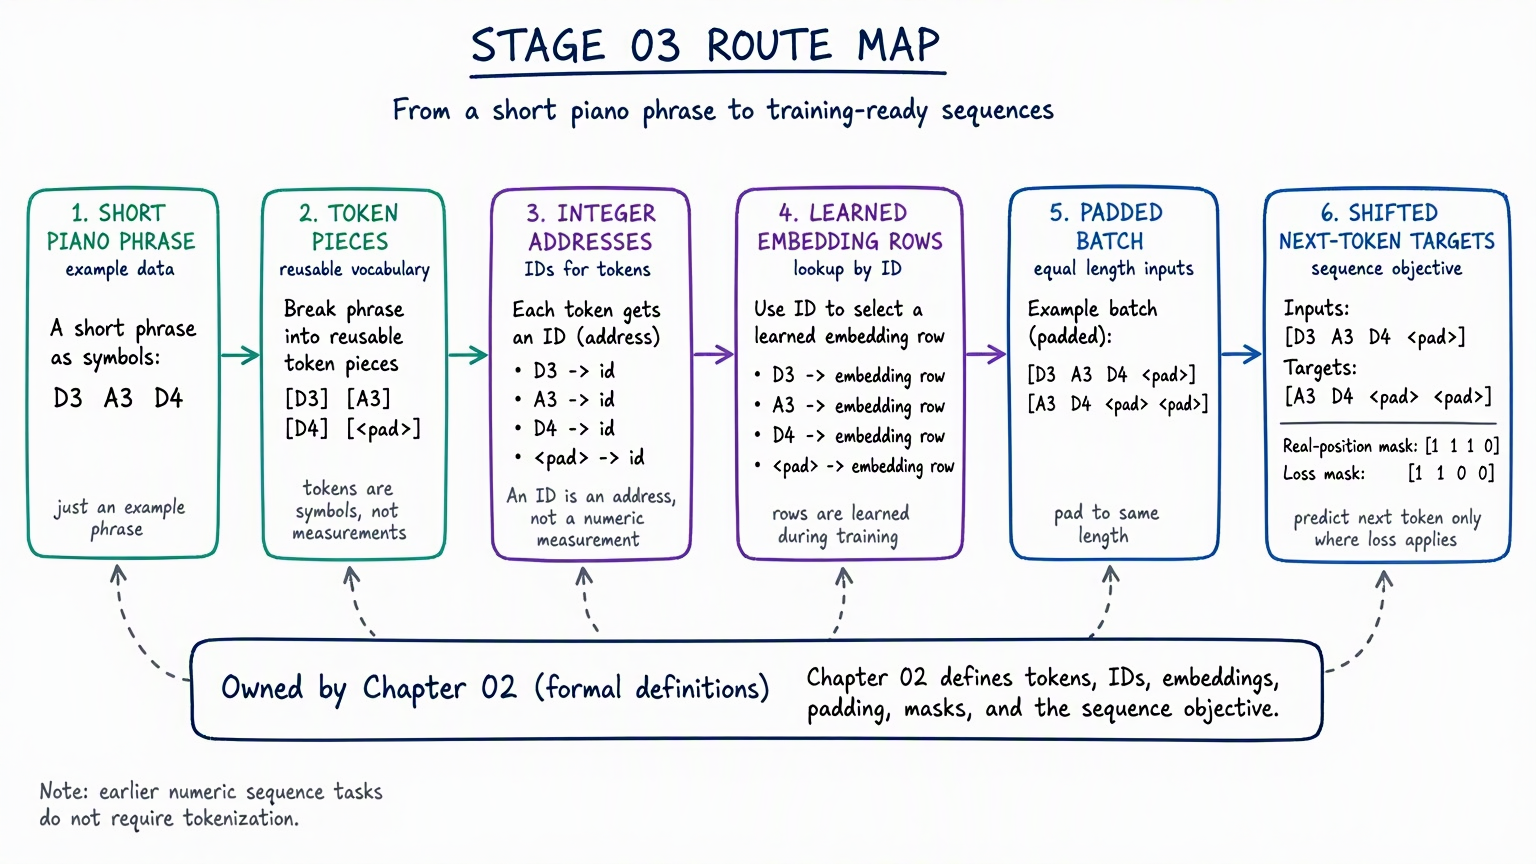
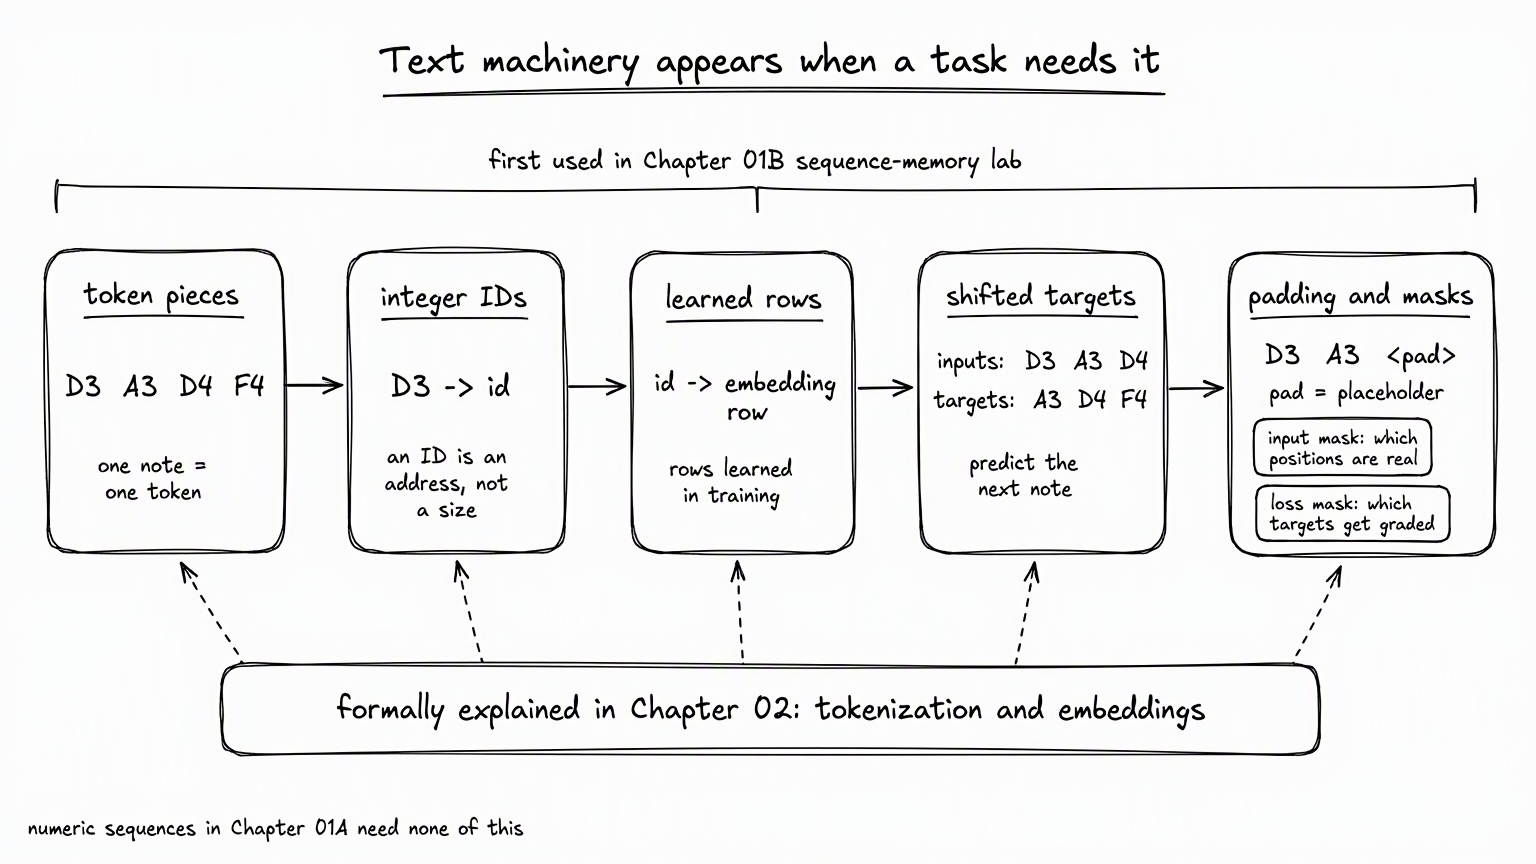
Regenerate four inaccurate curriculum images after accuracy review
- 04-rope-in-real-path: V no longer feeds rotation, scores, or softmax
- 04-block-family-comparison: remove stray arrow back into source memory
- 03-evo-03-fading-notecard: note updated from previous note + current word; add warm/cool answers
- 03-first-use-concept-map: correct one-step shift (inputs D3 A3 D4 -> targets A3 D4 F4), Chapter 01B first use

Alt text and PROMPTS.md records updated to match.

Changed region(s): [[0.0, 0.0312, 1.0, 0.6875], [0.0938, 0.7188, 0.875, 0.875], [0.0, 0.9062, 0.3438, 0.9688]]

diff --git a/learning/04-transformers/images/PROMPTS.md b/learning/04-transformers/images/PROMPTS.md
@@ -19,7 +19,7 @@ Used in: README.md — Reader map: what changes in each Part
 
 ## 04-block-family-comparison.png
 
-Status: generated (MAI-Image-2.6)
+Status: generated (MAI-Image-2.6; regenerated after accuracy review)
 
 Used in: README.md — What is inside each block family?
 
@@ -27,14 +27,14 @@ Used in: README.md — What is inside each block family?
 > - **Target file:** `images/04-block-family-comparison.png`
 > - **Teaches:** The writer with a separate source has one extra place to look: cross-attention.
 > - **Aspect ratio:** 16:9
-> - **Prompt:** Draw three side-by-side vertical stacks in a clean hand-drawn whiteboard style. Encoder: source [3,1,4,1] into self-attention (all valid source positions) then FFN (private per-position refinement). Decoder-only: aria heard into causal self-attention (prefix only) then FFN. Encoder-decoder writer: target [BOS,1,4] into causal self-attention then cross-attention then FFN; a separate blue source-memory bank [3,1,4,1] feeds only cross-attention. Use blue input cards, orange visibility boundaries, and green processed states. Label residual paths and normalization omitted from this comparison, not absent.
-> - **Must show:** Exact operation order in all three stacks; fixed source memory enters cross-attention; future target positions blocked; residual/normalization omission caveat.
+> - **Prompt:** A clean hand-drawn whiteboard diagram on white, 16:9. Title: "Three block families". Subtitle: "residual paths and normalization omitted here, not absent". Three vertical stacks side by side, each read top to bottom with downward arrows only. Stack 1 titled "Encoder": blue card "source 3 1 4 1", down to orange box "self-attention (sees all source positions)", down to green box "feed-forward (each position alone)". Stack 2 titled "Decoder-only": blue card "aria heard", down to orange box "causal self-attention (earlier positions only)", down to green box "feed-forward (each position alone)". Stack 3 titled "Encoder-decoder writer": blue card "target so far: start 1 4", down to orange box "causal self-attention (earlier target positions only)", down to orange box "cross-attention (looks at source memory)", down to green box "feed-forward (each position alone)". To the right of stack 3, a dashed blue box "source memory 3 1 4 1 (fixed, from encoder)" with ONE arrow pointing left into the cross-attention box only. No arrow points into the source memory. Large, sparse, correctly spelled text; nothing else.
+> - **Must show:** Exact operation order in all three stacks; fixed source memory enters cross-attention only, with no arrow back into it; residual/normalization omission caveat.
 > - **Must not show:** invented numbers, unreadable text, decorative clutter, logos, copyrighted characters
 > - **Alt text:** Encoder and decoder-only blocks each have attention then a feed-forward step. A source-conditioned writer adds cross-attention between its causal self-attention and feed-forward step.
 
 ## 04-rope-in-real-path.png
 
-Status: generated (MAI-Image-2.6)
+Status: generated (MAI-Image-2.6; regenerated after accuracy review)
 
 Used in: 02-attention-and-position.ipynb — Before the dials: where the question and label come from
 
@@ -42,7 +42,7 @@ Used in: 02-attention-and-position.ipynb — Before the dials: where the questio
 > - **Target file:** `images/04-rope-in-real-path.png`
 > - **Teaches:** Position turns the question and matching label before scoring, not the information that is delivered.
 > - **Aspect ratio:** 16:9
-> - **Prompt:** Draw the actual attention path left to right with the sentence the cat sat on the mat as the input row. Blue token-state cards feed learned Q/K/V projections, then separate head lanes. Label Q what cat asks, K what each position advertises, V what each position delivers. Q and K pass through orange paired dials labelled rotate by position; V bypasses the dials. Q/K arrows meet at scaled scores, then masks, then softmax (weights that sum to one), then weighted values; the V bypass enters this final blend. Use clean hand-drawn whiteboard style with blue inputs, orange position and legal-route controls, and green retrieved output. Clearly mark the early dial lesson as a visual preview and Sections 4–5 as the full computation connection.
-> - **Must show:** States, learned Q/K/V, head split, Q/K-only rotation, scaled scores, masks before softmax, weighted V in exact order; an explicit unrotated V bypass; preview versus real-path labels.
+> - **Prompt:** A clean hand-drawn whiteboard flow diagram on white, 16:9, one single left-to-right pipeline, no second panel. Title: "Where position enters attention". Far left: a row of six small blue cards "the" "cat" "sat" "on" "the" "mat" labelled "token states". One arrow from them splits into three blue boxes stacked vertically: top "Q: what am I looking for?", middle "K: what do I offer?", bottom "V: what do I deliver?". Q and K each pass through their own orange round dial icon labelled "rotate by position". V has NO dial; its arrow runs straight along the bottom labelled "V is not rotated". The rotated Q and rotated K arrows both enter one orange box "compare -> scaled scores", then arrow to orange box "mask (no illegal routes)", then arrow to orange box "softmax (weights sum to 1)". The softmax arrow and the long bottom V arrow both enter one green box "weighted blend of V", then arrow to green box "output". V never touches scores, mask, or softmax. Large, sparse, correctly spelled text; no numbers; nothing else.
+> - **Must show:** Q and K rotate by position; V bypasses rotation and never touches scores, mask, or softmax; softmax weights and V meet only at the weighted blend.
 > - **Must not show:** invented numbers, unreadable text, decorative clutter, logos, copyrighted characters
-> - **Alt text:** Projected queries and keys split into heads and rotate before scaled, masked comparisons. The resulting weights blend unrotated values.
+> - **Alt text:** Token states become queries, keys, and values. Only queries and keys rotate by position before scaled, masked comparison and softmax; the resulting weights blend unrotated values.

diff --git a/learning/03-language-model-foundations/images/PROMPTS.md b/learning/03-language-model-foundations/images/PROMPTS.md
@@ -4,13 +4,13 @@ Generate these images manually when ready. Keep placeholders in the lesson until
 
 ## 03-first-use-concept-map.png
 
-Status: generated (MAI-Image-2.6)
+Status: generated (MAI-Image-2.6; regenerated after accuracy review)
 Used in: `../README.md` — Recommended reader route
 
 - **Target file:** `images/03-first-use-concept-map.png`
 - **Teaches:** each text-tensor idea appears only when the current task needs it, while its formal owner remains easy to find.
 - **Aspect ratio:** 16:9
-- **Prompt:** Draw a clean hand-drawn whiteboard route map in the Stage 03 palette. Follow the real example tokens `D3`, `A3`, `D4`, and `<pad>` from a short piano phrase into reusable token pieces, integer addresses, learned embedding rows, a padded batch, shifted next-token targets, and separate real-position and loss masks. Put each concept beside the first task that needs it: sequence-memory text lab, tokenization and embeddings chapter, and the later sequence objective. Add small arrows to the formal owner in Chapter 02. Use plain readable labels and show that an ID is an address, not a numeric measurement; do not imply every earlier numeric sequence task needs tokenization.
-- **Must show:** the six concepts in route order; labels using `D3`, `A3`, `D4`, and `<pad>`; a visible distinction between input-position and loss-target masks; a link/ownership cue to Chapter 02; no fabricated measurements.
+- **Prompt:** A clean hand-drawn whiteboard route diagram on white, 16:9. Title: "Text machinery appears when a task needs it". Five cards left to right joined by arrows. Card 1 "token pieces": shows "D3  A3  D4  F4" and note "one note = one token". Card 2 "integer IDs": shows "D3 -> id" and note "an ID is an address, not a size". Card 3 "learned rows": shows "id -> embedding row" and note "rows learned in training". Card 4 "shifted targets": two labelled lines "inputs:  D3 A3 D4" and "targets: A3 D4 F4" and note "predict the next note". Card 5 "padding and masks": shows a short row "D3 A3 <pad>" with note "pad = placeholder", then two small labelled tags "input mask: which positions are real" and "loss mask: which targets get graded". Above cards 1 to 5 a thin bracket labelled "first used in Chapter 01B sequence-memory lab". Below all cards a wide box "formally explained in Chapter 02: tokenization and embeddings" with dashed arrows up to each card. Small footnote bottom left: "numeric sequences in Chapter 01A need none of this". Large, sparse, correctly spelled text; nothing else.
+- **Must show:** Five concepts in route order using D3 A3 D4 F4; correct one-step shift (inputs D3 A3 D4, targets A3 D4 F4); separate input and loss masks; first use in Chapter 01B; formal home in Chapter 02; no measurements.
 - **Must not show:** invented numbers, unreadable text, decorative clutter, logos, copyrighted characters, or a claim that tokenization is required for numeric recurrence.
-- **Alt text:** A route map shows piano tokens becoming vocabulary addresses and learned rows, then padding, shifted targets, and distinct masks, with Chapter 02 marked as their formal home.
+- **Alt text:** Piano notes become token pieces, integer addresses, and learned rows, then shifted next-note targets, padding, and separate input and loss masks. All are first used in the Chapter 01B lab and formally explained in Chapter 02.

diff --git a/learning/03-language-model-foundations/model-evolution/images/PROMPTS.md b/learning/03-language-model-foundations/model-evolution/images/PROMPTS.md
@@ -34,7 +34,7 @@ Used in: 01-counts-and-fixed-window-language-models.ipynb — The clue is one se
 
 ## 03-evo-03-fading-notecard.png
 
-Status: generated (MAI-Image-2.6)
+Status: generated (MAI-Image-2.6; regenerated after accuracy review)
 
 Used in: 02-fixed-windows-to-recurrent-language-models.ipynb — Keep the old failure in view
 
@@ -42,8 +42,8 @@ Used in: 02-fixed-windows-to-recurrent-language-models.ipynb — Keep the old fa
 > - **Target file:** `images/03-evo-03-fading-notecard.png`
 > - **Teaches:** A running note has a route beyond the window, but recall is not guaranteed.
 > - **Aspect ratio:** 16:9
-> - **Prompt:** Show two parallel handoffs reading red -> rest -> calmly -> now and blue -> rest -> calmly -> now. At every handoff show an orange card labelled carried state; words blue, warm/cool green. In a caution inset fade red ink over more handoffs, labelled possible forgetting, not measured result. Clean hand-drawn whiteboard style.
-> - **Must show:** Current word and previous note enter every update; no future word enters; fading inset labelled conceptual.
+> - **Prompt:** A clean hand-drawn whiteboard diagram on white, 16:9. Title: "A running note carries the clue past the window". Two horizontal rows. Top row: four word cards in order "red" "rest" "calmly" "now" along the bottom of the row; above them a chain of four orange note cards labelled "note 1" "note 2" "note 3" "note 4" joined left to right by arrows. Each word card has a short arrow pointing up into the note card directly above it, so every note is updated from the previous note plus the current word. After "note 4" an arrow to a green answer card "warm". Bottom row: identical layout with words "blue" "rest" "calmly" "now" and green answer "cool". The first word cards "red" and "blue" are the only difference between rows and are colored red and blue; the other words are black. Small dashed caution box at bottom right: four small orange cards with the word "red" written in fading ink, caption "possible forgetting, conceptual, not measured". Large, sparse, correctly spelled text; no numbers; nothing else.
+> - **Must show:** Each note is updated from the previous note plus the current word; answers warm and cool; only the first word differs between rows; fading inset labelled conceptual.
 > - **Must not show:** invented numbers, unreadable text, decorative clutter, logos, copyrighted characters
 > - **Alt text:** A recurrent reader passes a note between words. The note can carry the clue beyond a window but can also forget.
 

diff --git a/learning/03-language-model-foundations/README.md b/learning/03-language-model-foundations/README.md
@@ -24,7 +24,7 @@ are memory across a sequence and useful representations for discrete tokens.
 
 The [model-evolution route README](model-evolution/README.md) collects the three new, bounded comparisons and explains their handoffs. The [optional embedding-history branch](optional/embedding-history/README.md) is adjacent background, not a prerequisite for attention.
 
-![A route map shows piano tokens becoming vocabulary addresses and learned rows, then padding, shifted targets, and distinct masks, with Chapter 02 marked as their formal home.](images/03-first-use-concept-map.png)
+![Piano notes become token pieces, integer addresses, and learned rows, then shifted next-note targets, padding, and separate input and loss masks. All are first used in the Chapter 01B lab and formally explained in Chapter 02.](images/03-first-use-concept-map.png)
 *where token pieces, IDs, learned rows, padding, shifted targets, and masks first become necessary along the Stage 03 route.*
 
 
